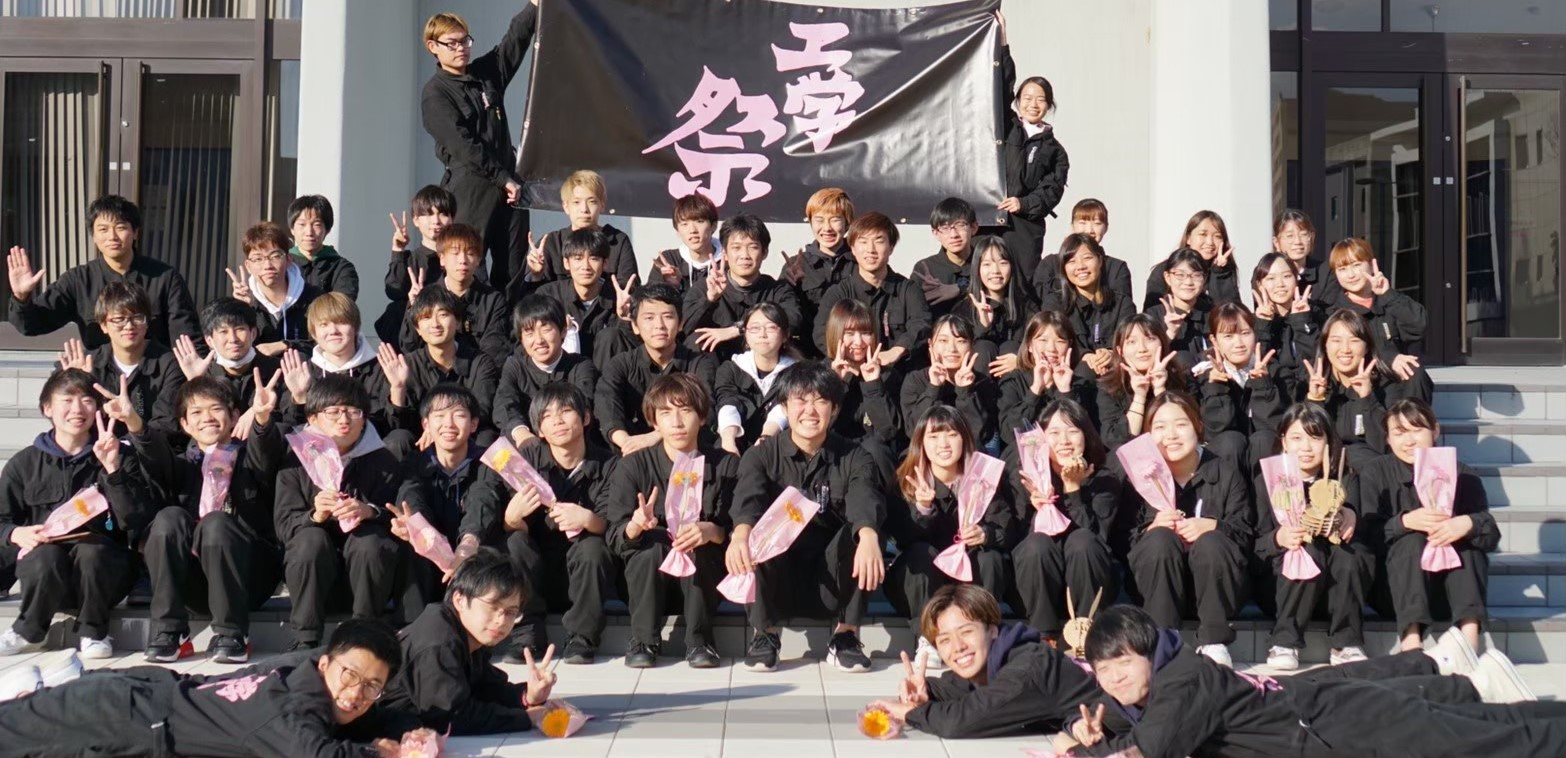
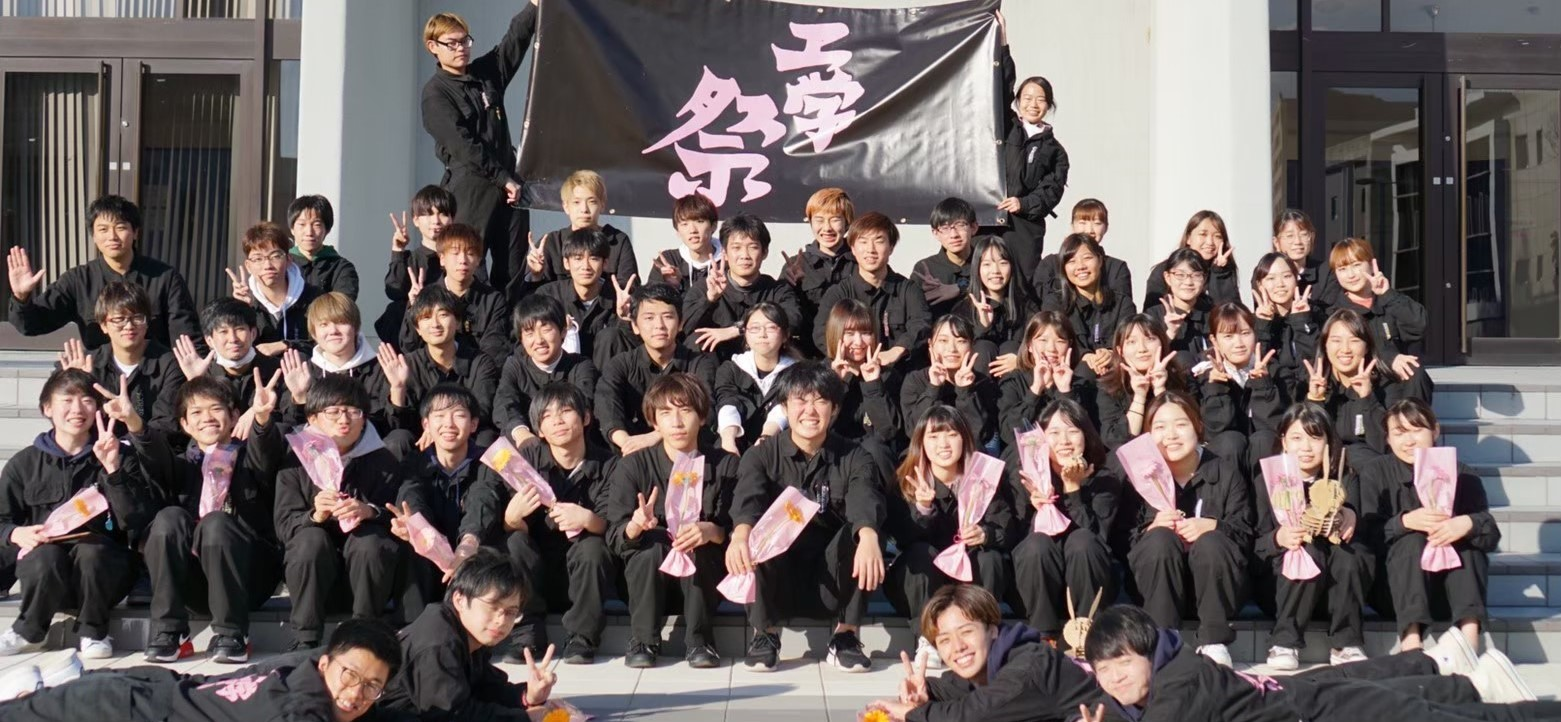
写真が拡大されない問題を解決

diff --git a/style.css b/style.css
@@ -35,7 +35,7 @@ img{
 .title{
     font-size: 40px;
     margin-top: 20px;
-    margin-left: 20px;
+    margin-left: 40px;
 }
 
 .header-nav{
@@ -56,6 +56,11 @@ img{
     color: #8ac8cf;
 }
 
+.main-picture{
+    margin-left: auto;
+    margin-right: auto;
+    width: 100%;
+}
 
 .about{
     margin-top: 200px;
@@ -69,7 +74,7 @@ img{
     display: flex;
     justify-content: space-between;
     list-style: none;
-    margin: 20px;
+    margin: 40px;
 }
 .about-list li{
     margin: 20px;
@@ -80,6 +85,9 @@ img{
 .about-picture{
     height: 300px;
     border-radius: 10px 10px 0 0;
+    margin-left: auto;
+    margin-right: auto;
+    width: 100%;
 }
 .about-desc{
     padding: 5px;

diff --git a/index.html b/index.html
@@ -9,7 +9,7 @@
 </head>
 <body>
     <div class="notice">
-        <p class="notice-content">現在お知らせはありません。</p>
+        <p class="notice-content">新入生 仮入部受付中!!!</p>
     </div>
     <div class="header">
         <p class="title">工学祭</p>
@@ -22,7 +22,7 @@
         </ul>
     </div>
     <div class="picture">
-        <img src="./img/02.jpg">
+        <img class="main-picture" src="./img/02.jpg">
     </div>
     <div class="about">
         <p class="about-title">工学祭とは？</p>
